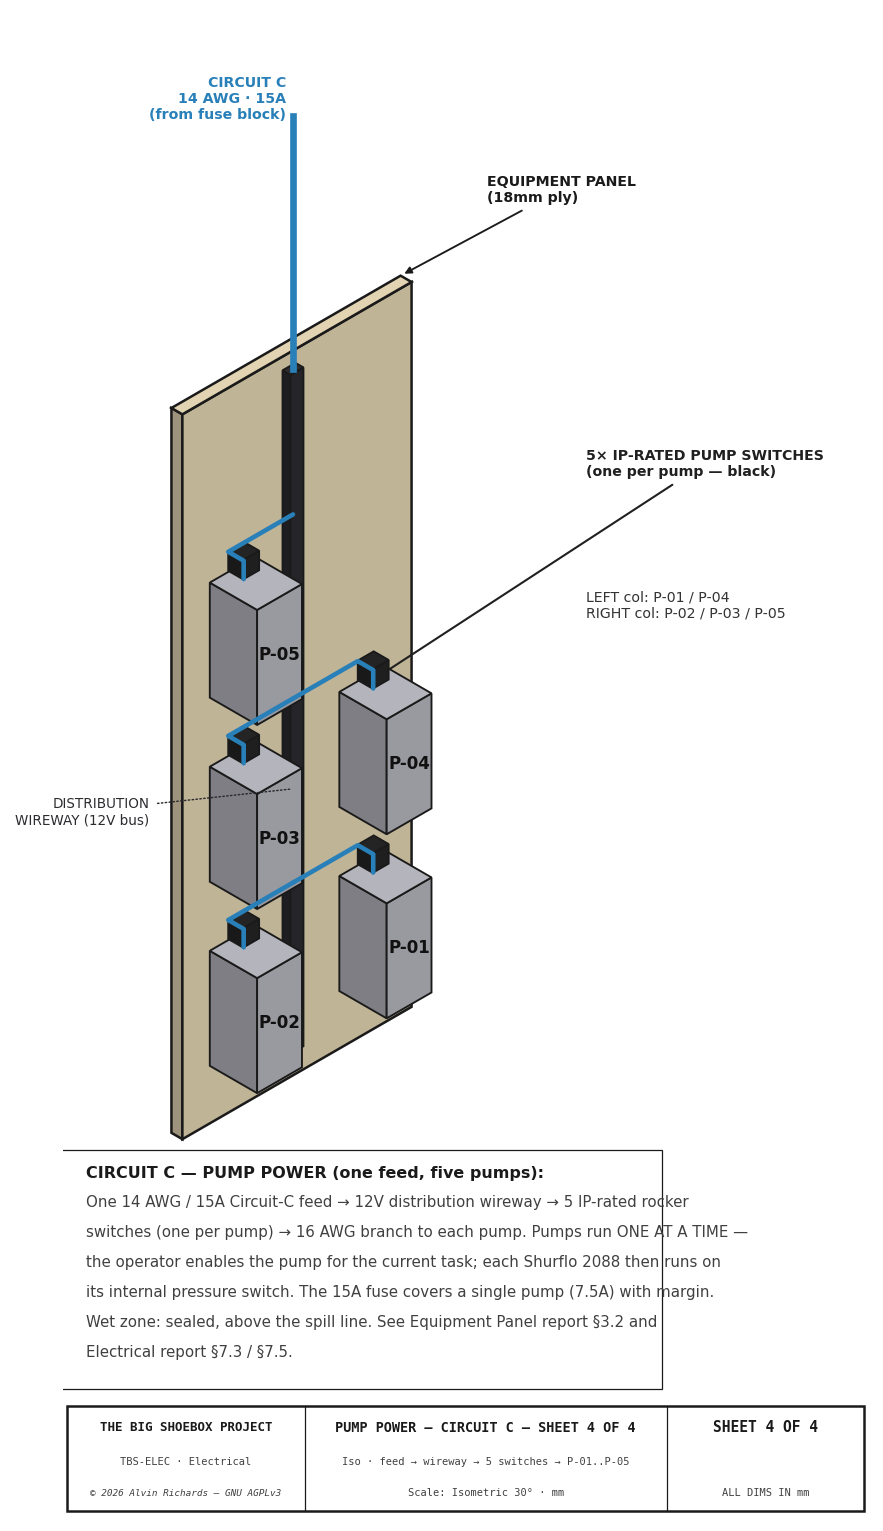
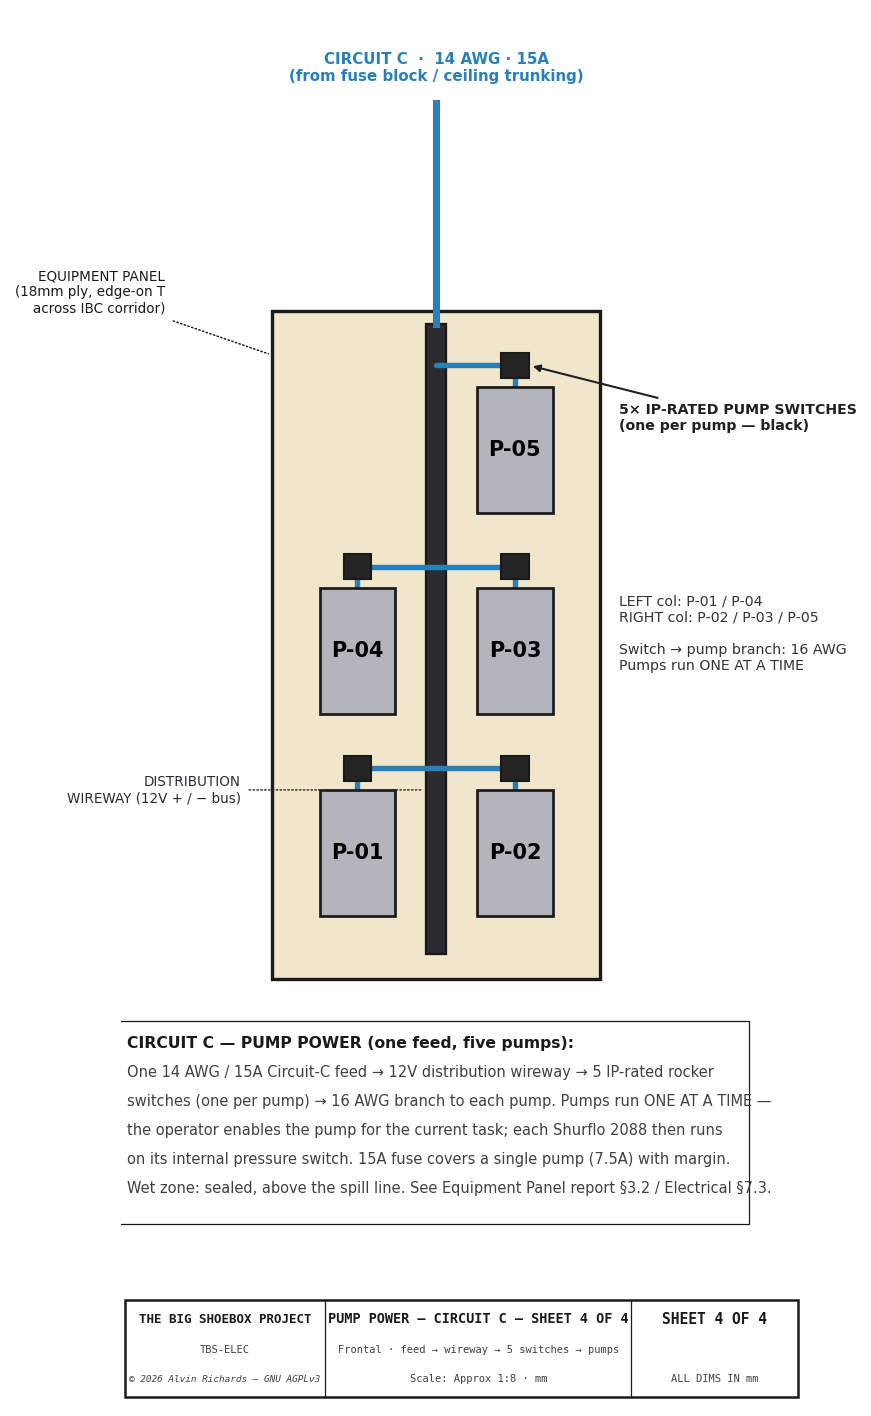
electrical Sheet 4: convert from isometric to flat frontal elevation
For consistency with the other 2D electrical sheets, redrew Sheet 4 as a flat
frontal elevation (panel face, wireway, 5 pumps in 2 columns, switches, Circuit-C
branches, feed) instead of the isometric. Updated the report description.

diff --git a/src/generators/generate_electrical_diagram.py b/src/generators/generate_electrical_diagram.py
@@ -1384,106 +1384,90 @@ def draw_sheet3():
 # ─────────────────────────────────────────────────────────────────────────────
 
 def draw_sheet4():
-    """SHEET 4 — Equipment-Panel Pump Power (Circuit C), isometric.
+    """SHEET 4 — Equipment-Panel Pump Power (Circuit C), frontal elevation.
 
-    2D iso companion to the electrical 3D model's pump distribution: the Circuit-C
-    feed → distribution wireway → 5 IP-rated switches → the 5 Shurflo pumps
-    (P-01..P-05, two columns), run one at a time.
+    Flat 2D companion to the electrical 3D model's pump distribution (kept
+    consistent with the other electrical sheets): the Circuit-C feed → 12V
+    distribution wireway → 5 IP-rated switches → the 5 Shurflo pumps (P-01..P-05,
+    two columns), run one at a time.
     """
     from tbs_constants import DIAGRAMS_DIR
-    import matplotlib.colors as mcolors
-    A = np.radians(30.0)
-    CA, SA = np.cos(A), np.sin(A)
+    R = mpatches.Rectangle
+    CC = "#2980B9"                                       # Circuit C blue
 
-    def iso(x, y, z):
-        # Textbook isometric, z up. x = protrusion toward viewer, y = panel width,
-        # z = height.  +x → right-down, +y → left-down, +z → up. Camera at (+,+,+)
-        # sees the +x, +y, +z faces.
-        return ((x - y) * CA, z - (x + y) * SA)
-
-    def cuboid(ax, x0, y0, z0, dx, dy, dz, base, ec=C_OUT, lw=0.9, zo=5):
-        def sh(f):
-            r, g, b = mcolors.to_rgb(base)
-            return (min(r * f, 1), min(g * f, 1), min(b * f, 1))
-        P = lambda i, j, k: iso(x0 + i * dx, y0 + j * dy, z0 + k * dz)
-        for pts, f in [([P(0, 1, 0), P(1, 1, 0), P(1, 1, 1), P(0, 1, 1)], 0.70),   # +y side
-                       ([P(1, 0, 0), P(1, 1, 0), P(1, 1, 1), P(1, 0, 1)], 0.85),   # +x front
-                       ([P(0, 0, 1), P(1, 0, 1), P(1, 1, 1), P(0, 1, 1)], 1.0)]:    # top
-            ax.add_patch(mpatches.Polygon(pts, closed=True, fc=sh(f), ec=ec, lw=lw, zorder=zo))
-
-    fig, ax = plt.subplots(figsize=(8.2, 13))
+    fig, ax = plt.subplots(figsize=(8.6, 12))
     ax.set_aspect("equal")
     ax.axis("off")
-    ax.set_xlim(-580, 820)
-    ax.set_ylim(150, 2760)
 
-    CC = "#2980B9"                                      # Circuit C blue
-    PW = 400                                            # panel width (schematic, exaggerated)
-    lcol, rcol, wy = 70, 330, 200                       # column centres + wireway (local Yd)
-    # rows (schematic, spread for clarity): bottom, mid, top
-    rb, rm, rt = 1120, 1440, 1760
-    z_top = 2160
+    # Frontal elevation: horizontal = panel width (Yd), vertical = height (Z).
+    PW = 440                                             # panel width (schematic)
+    lcol, rcol, wy = 95, 345, 220                        # column centres + wireway
+    rb, rm, rt = 1100, 1420, 1740                        # pump row bottoms
+    ph, pw = 200, 120                                    # pump body H × W
+    z_lo, z_hi = 1000, 2060
 
-    # ── Equipment panel (thin slab behind everything) ──
-    cuboid(ax, -22, -30, 1020, 22, PW + 60, z_top - 1020 + 120, "#E2D4B2", lw=1.2, zo=2)
-    pl = iso(-22, -30, z_top + 120)                     # panel top-near corner
-    ax.annotate("EQUIPMENT PANEL\n(18mm ply)", xy=pl, xytext=(pl[0] + 150, pl[1] + 150),
-                fontsize=6.8, ha="left", va="center", color=C_OUT, fontweight="bold",
-                arrowprops=dict(arrowstyle="-|>", color=C_OUT, lw=0.9))
+    # ── Equipment panel ──
+    ax.add_patch(R((-40, z_lo), PW + 80, z_hi - z_lo, fc="#EFE6CC", ec=C_OUT, lw=1.6,
+                   zorder=2))
+    leader(ax, -40, z_hi - 70, -210, z_hi + 30,
+           "EQUIPMENT PANEL\n(18mm ply, edge-on T\nacross IBC corridor)",
+           fs=6.5, color=C_OUT, ha="right")
 
-    # ── Distribution wireway (full pump-zone height, between the columns) ──
-    cuboid(ax, -16, wy - 13, rb - 60, 16, 26, (z_top + 80) - (rb - 60), "#2B2B30", lw=0.9, zo=3)
-    leader(ax, iso(-16, wy - 13, 1500)[0], iso(-16, wy - 13, 1500)[1],
-           -430, iso(-16, wy - 13, 1500)[1] - 40, "DISTRIBUTION\nWIREWAY (12V bus)",
+    # ── Distribution wireway (vertical, between the columns) ──
+    ax.add_patch(R((wy - 16, rb - 60), 32, (z_hi - 20) - (rb - 60), fc="#2B2B30",
+                   ec=C_OUT, lw=1.1, zorder=4))
+    leader(ax, wy - 16, 1300, -90, 1300, "DISTRIBUTION\nWIREWAY (12V + / − bus)",
            fs=6.5, color="#2B2B30", ha="right")
 
-    # ── Pumps + switches + branches — RIGHT column (far) first, then LEFT (near) ──
-    pumps = [("P-02", rcol, rb), ("P-03", rcol, rm), ("P-05", rcol, rt),   # right col
-             ("P-01", lcol, rb), ("P-04", lcol, rm)]                       # left col
-    for idx, (nm, yc, zb) in enumerate(pumps):
-        zo = 4 + idx                                    # painter order, far→near
-        cuboid(ax, 0, yc - 45, zb, 95, 90, 200, "#B4B4BC", zo=zo)
-        ax.text(*iso(95, yc, zb + 100), nm, fontsize=8, ha="center", va="center",
-                color="#111", fontweight="bold", zorder=zo + 20)
-        sz = zb + 210                                   # switch sits just above the pump
-        cuboid(ax, 8, yc - 16, sz, 30, 32, 34, "#242424", zo=zo + 10)
-        # Circuit-C branch: tap wireway at this level → switch → down to the pump head
-        bz = sz + 17
-        path = [iso(-8, wy, bz), iso(-8, yc, bz), iso(23, yc, bz), iso(23, yc, zb + 195)]
-        ax.plot([p[0] for p in path], [p[1] for p in path], color=CC, lw=2.2,
-                zorder=zo + 15, solid_capstyle="round")
+    # ── Pumps + switches + Circuit-C branches ──
+    pumps = [("P-01", lcol, rb), ("P-04", lcol, rm),
+             ("P-02", rcol, rb), ("P-03", rcol, rm), ("P-05", rcol, rt)]
+    for nm, xc, yb in pumps:
+        ax.add_patch(R((xc - pw / 2, yb), pw, ph, fc="#B4B4BC", ec=C_OUT, lw=1.3,
+                       zorder=6))
+        ax.text(xc, yb + ph / 2, nm, ha="center", va="center", fontsize=10,
+                fontweight="bold", zorder=8)
+        # switch on the panel face, just above the pump
+        sy = yb + ph + 34
+        ax.add_patch(R((xc - 22, sy - 20), 44, 40, fc="#242424", ec=C_OUT, lw=1.0,
+                       zorder=7))
+        # branch: wireway → switch (horizontal at switch height), then down to pump
+        ax.plot([wy, xc], [sy, sy], color=CC, lw=2.6, zorder=5, solid_capstyle="round")
+        ax.plot([xc, xc], [sy - 20, yb + ph], color=CC, lw=2.6, zorder=5)
 
     # ── Circuit-C feed from the ceiling trunking into the wireway top ──
-    ft = iso(-8, wy, z_top + 520)
-    fb = iso(-8, wy, z_top + 80)
-    ax.plot([ft[0], fb[0]], [ft[1], fb[1]], color=CC, lw=3.2, zorder=30)
-    ax.text(ft[0] - 12, ft[1] + 30, "CIRCUIT C\n14 AWG · 15A\n(from fuse block)",
-            fontsize=6.8, ha="right", va="center", color=CC, fontweight="bold")
-    # switches callout
-    sc = iso(23, lcol, rm + 210)
+    ax.plot([wy, wy], [z_hi + 330, z_hi - 20], color=CC, lw=3.4, zorder=9)
+    ax.text(wy, z_hi + 360, "CIRCUIT C  ·  14 AWG · 15A\n(from fuse block / ceiling trunking)",
+            ha="center", va="bottom", fontsize=7.2, color=CC, fontweight="bold")
+
+    # ── Right-side callouts ──
     ax.annotate("5× IP-RATED PUMP SWITCHES\n(one per pump — black)",
-                xy=sc, xytext=(330, 1980), fontsize=6.8, ha="left", va="center",
-                color="#202020", fontweight="bold",
-                arrowprops=dict(arrowstyle="-|>", color="#202020", lw=1.0))
-    ax.text(330, 1760, "LEFT col: P-01 / P-04\nRIGHT col: P-02 / P-03 / P-05",
+                xy=(rcol + 22, rt + ph + 34), xytext=(PW + 70, rt + 150),
+                fontsize=6.8, ha="left", va="center", color="#202020",
+                fontweight="bold", arrowprops=dict(arrowstyle="-|>", color="#202020", lw=1.0))
+    ax.text(PW + 70, rm + ph - 10,
+            "LEFT col: P-01 / P-04\nRIGHT col: P-02 / P-03 / P-05\n\n"
+            "Switch → pump branch: 16 AWG\nPumps run ONE AT A TIME",
             fontsize=6.8, ha="left", va="top", color="#333")
 
-    # ── Notes (clear of the geometry + title block) ──
+    ax.set_xlim(-280, PW + 360)
+    ax.set_ylim(330, z_hi + 470)
+
+    # ── Notes + title block (in the clear band below the panel, above the block) ──
     draw_notes(ax, [
         "CIRCUIT C — PUMP POWER (one feed, five pumps):",
         "One 14 AWG / 15A Circuit-C feed → 12V distribution wireway → 5 IP-rated rocker",
         "switches (one per pump) → 16 AWG branch to each pump. Pumps run ONE AT A TIME —",
-        "the operator enables the pump for the current task; each Shurflo 2088 then runs on",
-        "its internal pressure switch. The 15A fuse covers a single pump (7.5A) with margin.",
-        "Wet zone: sealed, above the spill line. See Equipment Panel report §3.2 and",
-        "Electrical report §7.3 / §7.5.",
-    ], -540, 760, spacing=52, fs=7.2, width=950)
+        "the operator enables the pump for the current task; each Shurflo 2088 then runs",
+        "on its internal pressure switch. 15A fuse covers a single pump (7.5A) with margin.",
+        "Wet zone: sealed, above the spill line. See Equipment Panel report §3.2 / Electrical §7.3.",
+    ], -270, 910, spacing=46, fs=7.0, width=940)
 
     title_block(ax, "SHEET 4 OF 4",
                 drawing_title="PUMP POWER — CIRCUIT C",
-                subtitle="Iso · feed → wireway → 5 switches → P-01..P-05",
-                scale_note="Isometric 30° · mm",
-                doc_id="TBS-ELEC · Electrical", height=0.07, portrait=True)
+                subtitle="Frontal · feed → wireway → 5 switches → pumps",
+                scale_note="Approx 1:8 · mm",
+                doc_id="TBS-ELEC", height=0.07, portrait=True)
 
     plt.savefig(f"{DIAGRAMS_DIR}/electrical-sheet4.png", dpi=150, bbox_inches="tight",
                 pad_inches=0.10, facecolor="white")

diff --git a/electrical-report.md b/electrical-report.md
@@ -250,7 +250,7 @@ Interior elevation of the pinhole wall face (Yd=0), looking from inside the cont
 ![TBS-ELEC Sheet 3 — Pinhole Wall Interior Elevation](assets/electrical-sheet3.png)
 
 **Sheet 4 — Equipment-Panel Pump Power (Circuit C)**
-Isometric detail of the Circuit-C pump distribution on the equipment panel (the 2D companion to the electrical 3D model): the single 14 AWG / 15A feed drops into a 12V distribution wireway running the pump-zone height, with one IP-rated rocker switch per pump (left column P-01/P-04, right column P-02/P-03/P-05) tapped off the wireway by a 16 AWG branch. Pumps run one at a time. See §7.3 (Circuit C) and the [Equipment Panel report §3.2](equipment-panel-report.md).
+Frontal elevation of the Circuit-C pump distribution on the equipment panel (the 2D companion to the electrical 3D model): the single 14 AWG / 15A feed drops into a 12V distribution wireway running the pump-zone height, with one IP-rated rocker switch per pump (left column P-01/P-04, right column P-02/P-03/P-05) tapped off the wireway by a 16 AWG branch. Pumps run one at a time. See §7.3 (Circuit C) and the [Equipment Panel report §3.2](equipment-panel-report.md).
 
 ![TBS-ELEC Sheet 4 — Equipment-Panel Pump Power (Circuit C)](assets/electrical-sheet4.png)
 
